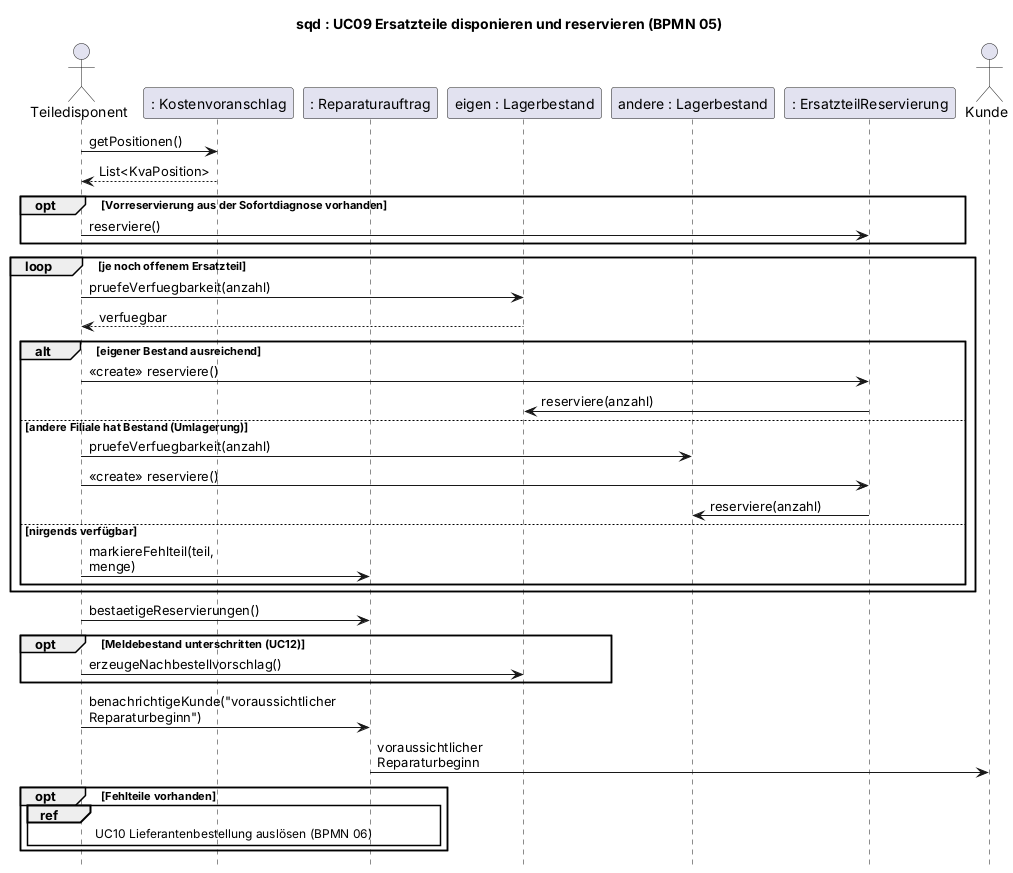
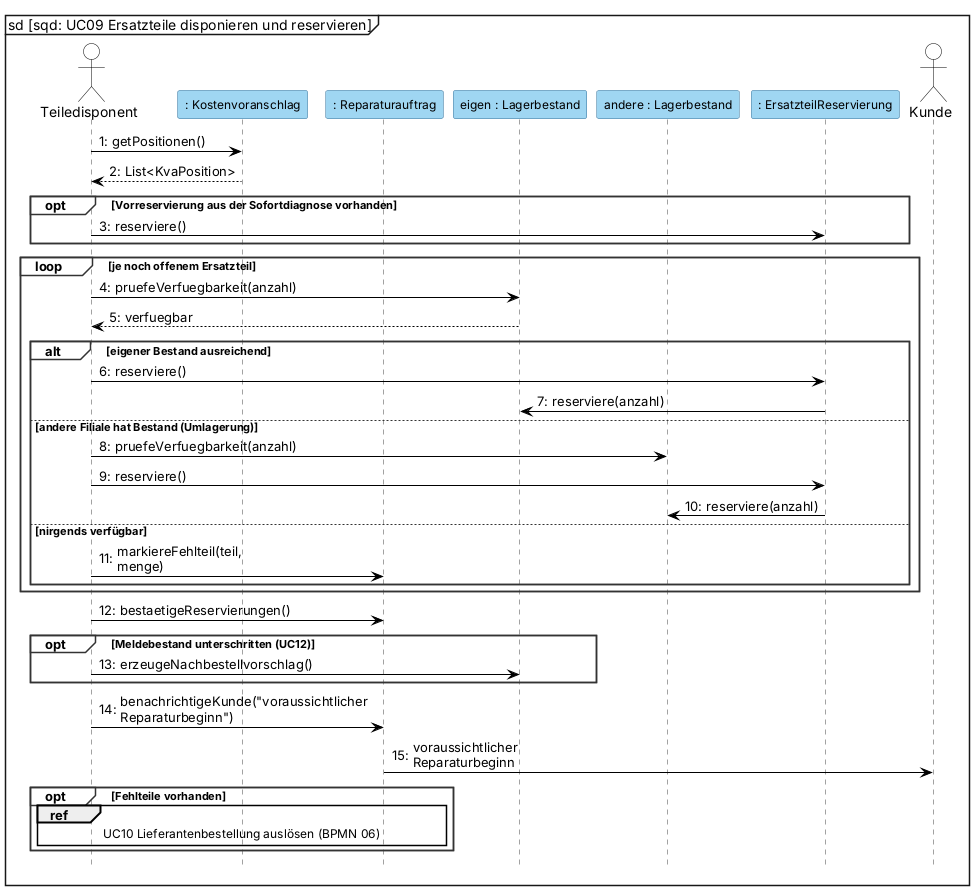
[T05 2026-10-15] style: sequence diagram templates in Visual Paradigm notation (E-28)
Objekterzeugung als Create Message auf den Kopfkasten (VL 6 Folie 5-70),
kein <<create>>-Stereotyp, Nummerierung und VP-Farben; SD3 Reservierung
als vorhandenes Objekt. README und E-28 ergänzt.

Claude-Session: https://claude.ai/code/session_01H2bGsFaySUqsEjJ1PXuxUw

Changed region(s): [[0.0, 0.0, 1.0, 1.0], [0.0, 0.0928, 0.0308, 0.1237]]

diff --git a/2_uml/README.md b/2_uml/README.md
@@ -22,7 +22,7 @@ Zuständig seit 15.10.2026 (E-23): Kilian Klassendiagramm, SD1, SD4, Konsistenzp
 2. **Modell importieren:** Project → Import → XMI…, Datei `modell.xmi` wählen. Im Model Explorer erscheinen die Pakete Datentypen, Klassenmodell und Anwendungsfallmodell mit allen Elementen. Falls der Import Fehler meldet: Meldung notieren und in `5_team/protokolle/` ablegen, dann Klassen nach dem PNG von Hand anlegen (die Attribute und Operationen stehen komplett in `klassen.puml`).
 3. **Klassendiagramm anlegen:** neues Class Diagram „cd RepairFlow" in den Standardordner, Klassen und Aufzählungen aus dem Model Explorer auf die Fläche ziehen (mehrere markieren und gemeinsam ziehen). Assoziationen und Generalisierungen werden automatisch mitgezeichnet. Layout nach dem PNG ordnen: links Mandant, Personen und Mitarbeiter-Rollen (Servicemitarbeiter, Techniker, Disponent, Werkstattleiter), Mitte Auftrag, rechts Disposition, Aufzählungen am Rand.
 4. **Use-Case-Diagramm anlegen:** neues Use Case Diagram „ud RepairFlow", Systemgrenze „RepairFlow" zeichnen, Use Cases aus dem Model Explorer hineinziehen, Akteure links (primär) und rechts (Lieferant, KI-Diagnosedienst). include/extend kommen aus dem Modell mit.
-5. **Sequenzdiagramme als Unterdiagramme:** im Use-Case-Diagramm den Use Case rechtsklicken → Sub Diagrams → New Diagram → Sequence Diagram. So verlangt es der Ablauf („Verfeinerungsdiagramm"). Je Use Case eines: UC01 Sofortdiagnose anfordern (SD1, Kilian), UC07 KVA freigeben / ablehnen (SD2, David), UC09 Ersatzteile disponieren und reservieren (SD3, David), UC14 Auftrag fertigmelden (SD4, Kilian), UC16 Reklamation bearbeiten (SD5, David), UC10 Lieferantenbestellung auslösen (SD6, David, Bestellbedarf aus UC12; ref auf UC11/UC19). Lebenslinien: Akteure als Actor, Objekte als „: Klassenname" mit der Klasse aus dem Modell verknüpfen (dann bietet VP die Operationen zur Auswahl an). Fragmente alt/opt/loop/par/break und ref wie in den PNGs.
+5. **Sequenzdiagramme als Unterdiagramme:** im Use-Case-Diagramm den Use Case rechtsklicken → Sub Diagrams → New Diagram → Sequence Diagram. So verlangt es der Ablauf („Verfeinerungsdiagramm"). Je Use Case eines: UC01 Sofortdiagnose anfordern (SD1, Kilian), UC07 KVA freigeben / ablehnen (SD2, David), UC09 Ersatzteile disponieren und reservieren (SD3, David), UC14 Auftrag fertigmelden (SD4, Kilian), UC16 Reklamation bearbeiten (SD5, David), UC10 Lieferantenbestellung auslösen (SD6, David, Bestellbedarf aus UC12; ref auf UC11/UC19). Lebenslinien: Akteure als Actor, Objekte als „: Klassenname" mit der Klasse aus dem Modell verknüpfen (dann bietet VP die Operationen zur Auswahl an). Fragmente alt/opt/loop/break und ref wie in den PNGs. Objekterzeugung mit dem Werkzeug **Create Message** auf den Kopfkasten der Lebenslinie (gestrichelt, Kasten sitzt dann auf Nachrichtenhöhe – Notation VL 6 Folie 5-70); die PNGs zeigen das seit 15.10. genauso, ein «create»-Text wird nicht eingetragen. Diagrammname `sqd: UCxx Name`, im Diagramm Presentation Options → Message Display Options → Parameter Types ausblenden.
 6. Optional: Zustandsdiagramm „stm Reparaturauftrag" als Unterdiagramm der Klasse Reparaturauftrag.
 7. Die Stereotypen «mandant» (Werkstattbetrieb) und «stammdaten» (Filiale, Lieferant, Ersatzteil) überträgt die XMI nicht; in VP von Hand setzen. Die extend-Beziehungen enthalten jetzt Erweiterungspunkte und Bedingungen; nach dem Import gegen `usecase.puml` prüfen.
 8. Wer das XMI schon vor dem 05.10.2026 importiert hat: neu importieren (einfacher) oder die Änderungen aus E-15, E-17 und E-18 (`9_archiv/v2_2026-10-05_generatoren-und-pruefungen/doku/03-entscheidungen-bis-2026-10-05.md`) von Hand nachziehen (Servicemitarbeiter, UC19, include/extend, neue Operationen und Assoziationen).

diff --git a/5_team/03-entscheidungen.md b/5_team/03-entscheidungen.md
@@ -21,6 +21,7 @@ Vorschlag von Kilian (vorbereitet mit KI-Unterstützung), Bestätigung durch die
 - **Warum:** Die bisherigen Vorlagen hatten bis zu 35 Botschaften und 10 Fragmente je Diagramm und wiederholten die Ausnahmen aus den Prozessmodellen. Die Beispiele der Vorlesung (VL 5-71, 5-89 bis 5-91) kommen mit wenigen Lebenslinien und unter zehn Botschaften aus. Gefordert ist je Use Case ein Sequenzdiagramm, kein Umfang.
 - **Neu:** Je Diagramm 2 bis 7 Lebenslinien, 7 bis 16 Botschaften, höchstens fünf Fragmente. Erste Lebenslinie ist die Rolle des Use Case, Botschaften an Objekte bleiben Operationen des Klassendiagramms, Ausnahmen und Folgeprozesse stehen als ref. Fachliche Festlegungen bleiben: SD4 loop 0..2 und Abbruch (E-22), SD3 Vorreservierung aus der Sofortdiagnose (E-26), SD6 höchstens zwei Mahnungen, Storno an den Lieferanten (E-27).
 - **Dateien:** `2_uml/entwurf-plantuml/sequenz-01 … 06.puml/.png` überschrieben. Die alten Fassungen stehen in der Git-Historie (Stand vor diesem Commit).
+- **Darstellung:** Objekterzeugung wie in Visual Paradigm und VL 6 Folie 5-70: gestrichelter Pfeil auf den Kopfkasten, Kasten auf Nachrichtenhöhe, kein «create»-Stereotyp; Botschaften nummeriert. In SD3 ist die Reservierung deshalb ein vorhandenes Objekt (eine Lebenslinie kann nur einmal erzeugt werden).
 - **Folgt daraus:** Nina prüft Doku 5.5 und Tabelle 8 (Beschreibung der sechs SD; „par“ kommt nicht mehr vor). Für Visual Paradigm gilt die neue Vorlage.
 
 ## E-27 Überarbeitung von Prozess 06 (15.10.2026)
